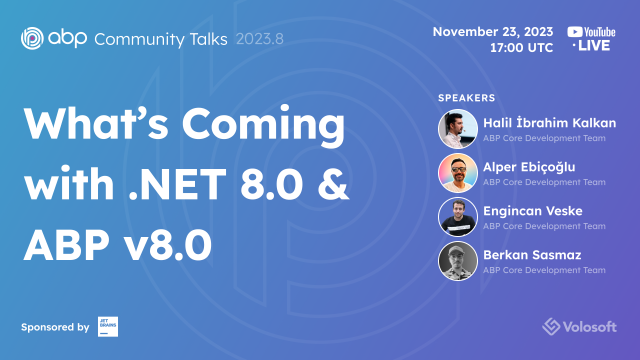
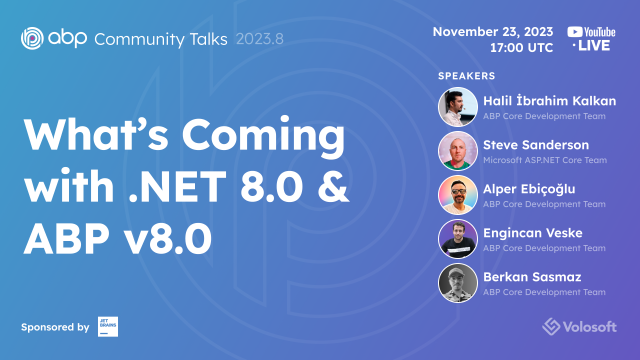
Completed ABP Framework section.

diff --git a/docs/en/Blog-Posts/2023-11-15 v8_0_Preview/POST.md b/docs/en/Blog-Posts/2023-11-15 v8_0_Preview/POST.md
@@ -30,7 +30,7 @@ See the [ABP CLI documentation](https://docs.abp.io/en/abp/latest/CLI) for all t
 
 > You can also use the [Get Started](https://abp.io/get-started) page to generate a CLI command to create a new application.
 
-You can use any IDE that supports .NET 7.x, like [Visual Studio 2022](https://visualstudio.microsoft.com/downloads/).
+You can use any IDE that supports .NET 8.x, like [Visual Studio 2022](https://visualstudio.microsoft.com/downloads/).
 
 ## Migration Guides
 
@@ -42,11 +42,90 @@ Please see the following migration documents, if you are upgrading from v7.x or 
 
 ## What's New with ABP Framework 8.0?
 
-//TODO: write the section!!!
+In this section, I will introduce some major features released in this version.
+Here is a brief list of titles explained in the next sections:
+
+* Upgraded to .NET 8.0
+* Upgraded to Angular 17
+* Dynamic Claims
+* CDN Support for Bundling & Minification System
+* Read-Only Repositories
+* Account Module: Set Username After Social/External Login
+* Other News...
+
+### Upgraded to .NET 8.0
+
+We've upgraded the ABP Framework to .NET 8.0, so you need to move your solutions to .NET 8.0 if you want to use ABP 8.0. You can check the [Microsoft’s Migrate from ASP.NET Core 7.0 to 8.0 documentation](https://learn.microsoft.com/en-us/aspnet/core/migration/70-80), to see how to update an existing ASP.NET Core 7.0 project to ASP.NET Core 8.0.
+
+### Upgraded to Angular 17
+
+Angular 17 [has been released on November 8](https://blog.angular.io/introducing-angular-v17-4d7033312e4b) and ABP Framework & ABP Commercial startup templates are immediately migrated to **Angular 17**! 
+
+So, when you create a new solution with the Angular UI, you will take advantage of the new Angular with the new cutting-edge features and enhancements right from the start!
+
+### Dynamic Claims
+
+The **Dynamic Claims** feature is used to dynamically generate claims for the user in each request. It's used to automatically and dynamically override the configured claim values in the client's authentication token/cookie by the latest user claims.
+
+In the prior versions, whenever a user changes its email address or confirm own email address, or any other information related to user and also being in user claims, he/she would need to logout and then login to refresh its claims. The new **Dynamic Claims** feature overcomes this problem and allows to **always get the latest user claims**.
+
+This feature is disabled by default and you can enable it easily for your existing MVC applications by following the [Dynamic Claims documentation](https://docs.abp.io/en/abp/8.0/Dynamic-Claims). For the other UI options (Angular & Blazor UIs), you don't need to enable this feature, since they obtain claims ftom a configuration endpoint.
+
+> **Note**: Beginning from the v8.0, all the startup templates are pre-configured and the **Dynamic Claims** feature is enabled by default.
+
+### CDN Support for Bundling & Minification System
+
+In this version, ABP Framework's [Bundling & Minification System](https://docs.abp.io/en/abp/latest/UI/AspNetCore/Bundling-Minification) provides CDN support for MVC / Razor Pages UI. The bundling system automatically recognizes the external/CDN files and places them as link/script tags into the page along with the bundled CSS/JSS files.
+
+> Read the documentation for more info: https://docs.abp.io/en/abp/8.0/UI/AspNetCore/Bundling-Minification
+
+### Read-Only Repositories
+
+ABP Framework provides read-only repository interfaces (`IReadOnlyRepository<>` or `IReadOnlyBasicRepository<>`) to explicitly indicate that your purpose is to query data, but not change it. It uses [EF Core's No-Tracking Feature](https://learn.microsoft.com/en-us/ef/core/querying/tracking#no-tracking-queries) behind the scene, and that means the entities returned from the repository will not be tracked by the EF Core's [change tracker](https://learn.microsoft.com/en-us/ef/core/change-tracking/) and thanks to that you get significant performance gains.
+
+```csharp
+public class MyService
+{
+   private readonly IReadOnlyRepository<Book, Guid> _bookRepository;
+
+   public async Task MyMethod()
+   {
+      var books = await _bookRepository.GetListAsync(); //change tracking not involved
+
+      //...
+   }
+}
+```
+
+> In addition to the read-only repository interfaces, ABP Framework introduces the `IRepository.DisableTracking()` and `IRepository.EnableTracking()` extension methods to allow developers to disable/enable entity tracking by these methods manually. If you don't want to use the read-only repositories, you can use these methods to enable or disable the change tracker controlly. You can check this issue to learn more: [https://github.com/abpframework/abp/issues/17487](https://github.com/abpframework/abp/issues/17487).
+
+### Account Module: Set Username After Social/External Login
+
+Prior to this version, when you register with your social accounts in the first time, your email address was becoming your username and it was shown everywhere in the application. Therefore, you would need to update your username later on and this is not a good user experience.
+
+Thus, in this version, we have enhanced this flow and now, when you register as an external user in the first time, a username and email address shown you in a form for you to revise and update if you want, before login into the application. Thanks to that, after the social registration you would not need to update your username and email address. This is also good at the point of GDPR regulations because your email address will not be shown as username and will not exposed, unless you make it so :)
+
+![](account-module-register.png)
+
+### Other News
+
+* LDAP over SSL (LDAPS) setting has been added and recommended to establish a secure connection. See [#17865](https://github.com/abpframework/abp/pull/17865) for more information.
+* Object Mapping Enhancements (supports mapping collection of objects for custom object mappers). 
+* Email Sending Improvements (sending attachements with `IEmailSender.QueueAsync()` method).
 
 ## What's New with ABP Commercial 8.0?
 
+We've also worked on ABP Commercal to align the features and changes made in the ABP Framework. The following sections introduce a few new features coming with ABP Commercial 8.0.
+
 //TODO: write the section!!!
+
+### Suite: Generating Master/Detail Relationship
+
+//TODO:
+
+#### Known Issues
+
+* After you generated CRUD pages via Suite for the Angular UI, you should start the backend project and run the `abp generate-proxy -t ng` command in the root directory of the angular application manually. This is a known issue and it will be automatically done with the next version, so you would not need to run the command manually in the further versions.
 
 ## Community News
 
@@ -78,17 +157,17 @@ Microsoft has released .NET 8.0 and celebrated it with a 3-day international onl
 
 [Alper Ebiçoğlu](https://twitter.com/alperebicoglu)'s topic was "Building Multi-Tenant ASP.NET Core Applications and ABP Framework" and in this talk, he talked about what's saas development, what are its pros and challenges and multi-tenant development with the open-source ABP Framework:
 
-![](dotnet-conf-alper-ebicoglu.png)
+<iframe width="560" height="315" src="https://www.youtube.com/embed/3uWeyEbV4c4?si=XuU8-QJs2w5j6Inp" title="YouTube video player" frameborder="0" allow="accelerometer; autoplay; clipboard-write; encrypted-media; gyroscope; picture-in-picture; web-share" allowfullscreen></iframe>
 
 On the other hand, [Enis Necipoğlu](https://twitter.com/EnisNecipoglu)'s topic was "Reactive programming with .NET MAUI" and he talked about applying reactive programming in .NET MAUI with MVVM and ReactiveUI:
 
-![](dotnet-conf-enis-necipoglu.png)
+<iframe width="560" height="315" src="https://www.youtube.com/embed/i0EFuRF2u-w?si=wPTSDxtbfkzMF5CN" title="YouTube video player" frameborder="0" allow="accelerometer; autoplay; clipboard-write; encrypted-media; gyroscope; picture-in-picture; web-share" allowfullscreen></iframe>
 
 ### ABP Community Talks 2023.8: What’s coming with .NET 8.0 & ABP v8.0
 
 ![](community-talk-2023-8.png)
 
-In this episode of ABP Community Talks, 2023.8; we'll talk about .NET 8.0 and ABP 8.0 with the ABP Core Team. We will dive into the features that came with .NET 8.0, how they are implemented in ABP 8.0, and the highlights in the .NET Conf 2023 with [Halil İbrahim Kalkan](https://github.com/hikalkan), [Alper Ebicoglu](https://github.com/ebicoglu), [Engincan Veske](https://github.com/EngincanV), [Berkan Sasmaz](https://github.com/berkansasmaz) and [Bige Besikci Yaman](https://github.com/bigebesikci).
+In this episode of ABP Community Talks, 2023.8; [Steve Sanderson](https://twitter.com/stevensanderson) will be our guest speaker and we'll talk about .NET 8.0 and ABP 8.0 with the ABP Core Team. We will dive into the features that came with .NET 8.0, how they are implemented in ABP 8.0, and the highlights in the .NET Conf 2023 with [Halil İbrahim Kalkan](https://github.com/hikalkan), [Alper Ebicoglu](https://github.com/ebicoglu), [Engincan Veske](https://github.com/EngincanV), [Berkan Sasmaz](https://github.com/berkansasmaz) and [Bige Besikci Yaman](https://github.com/bigebesikci).
 
 ## Conclusion
 
